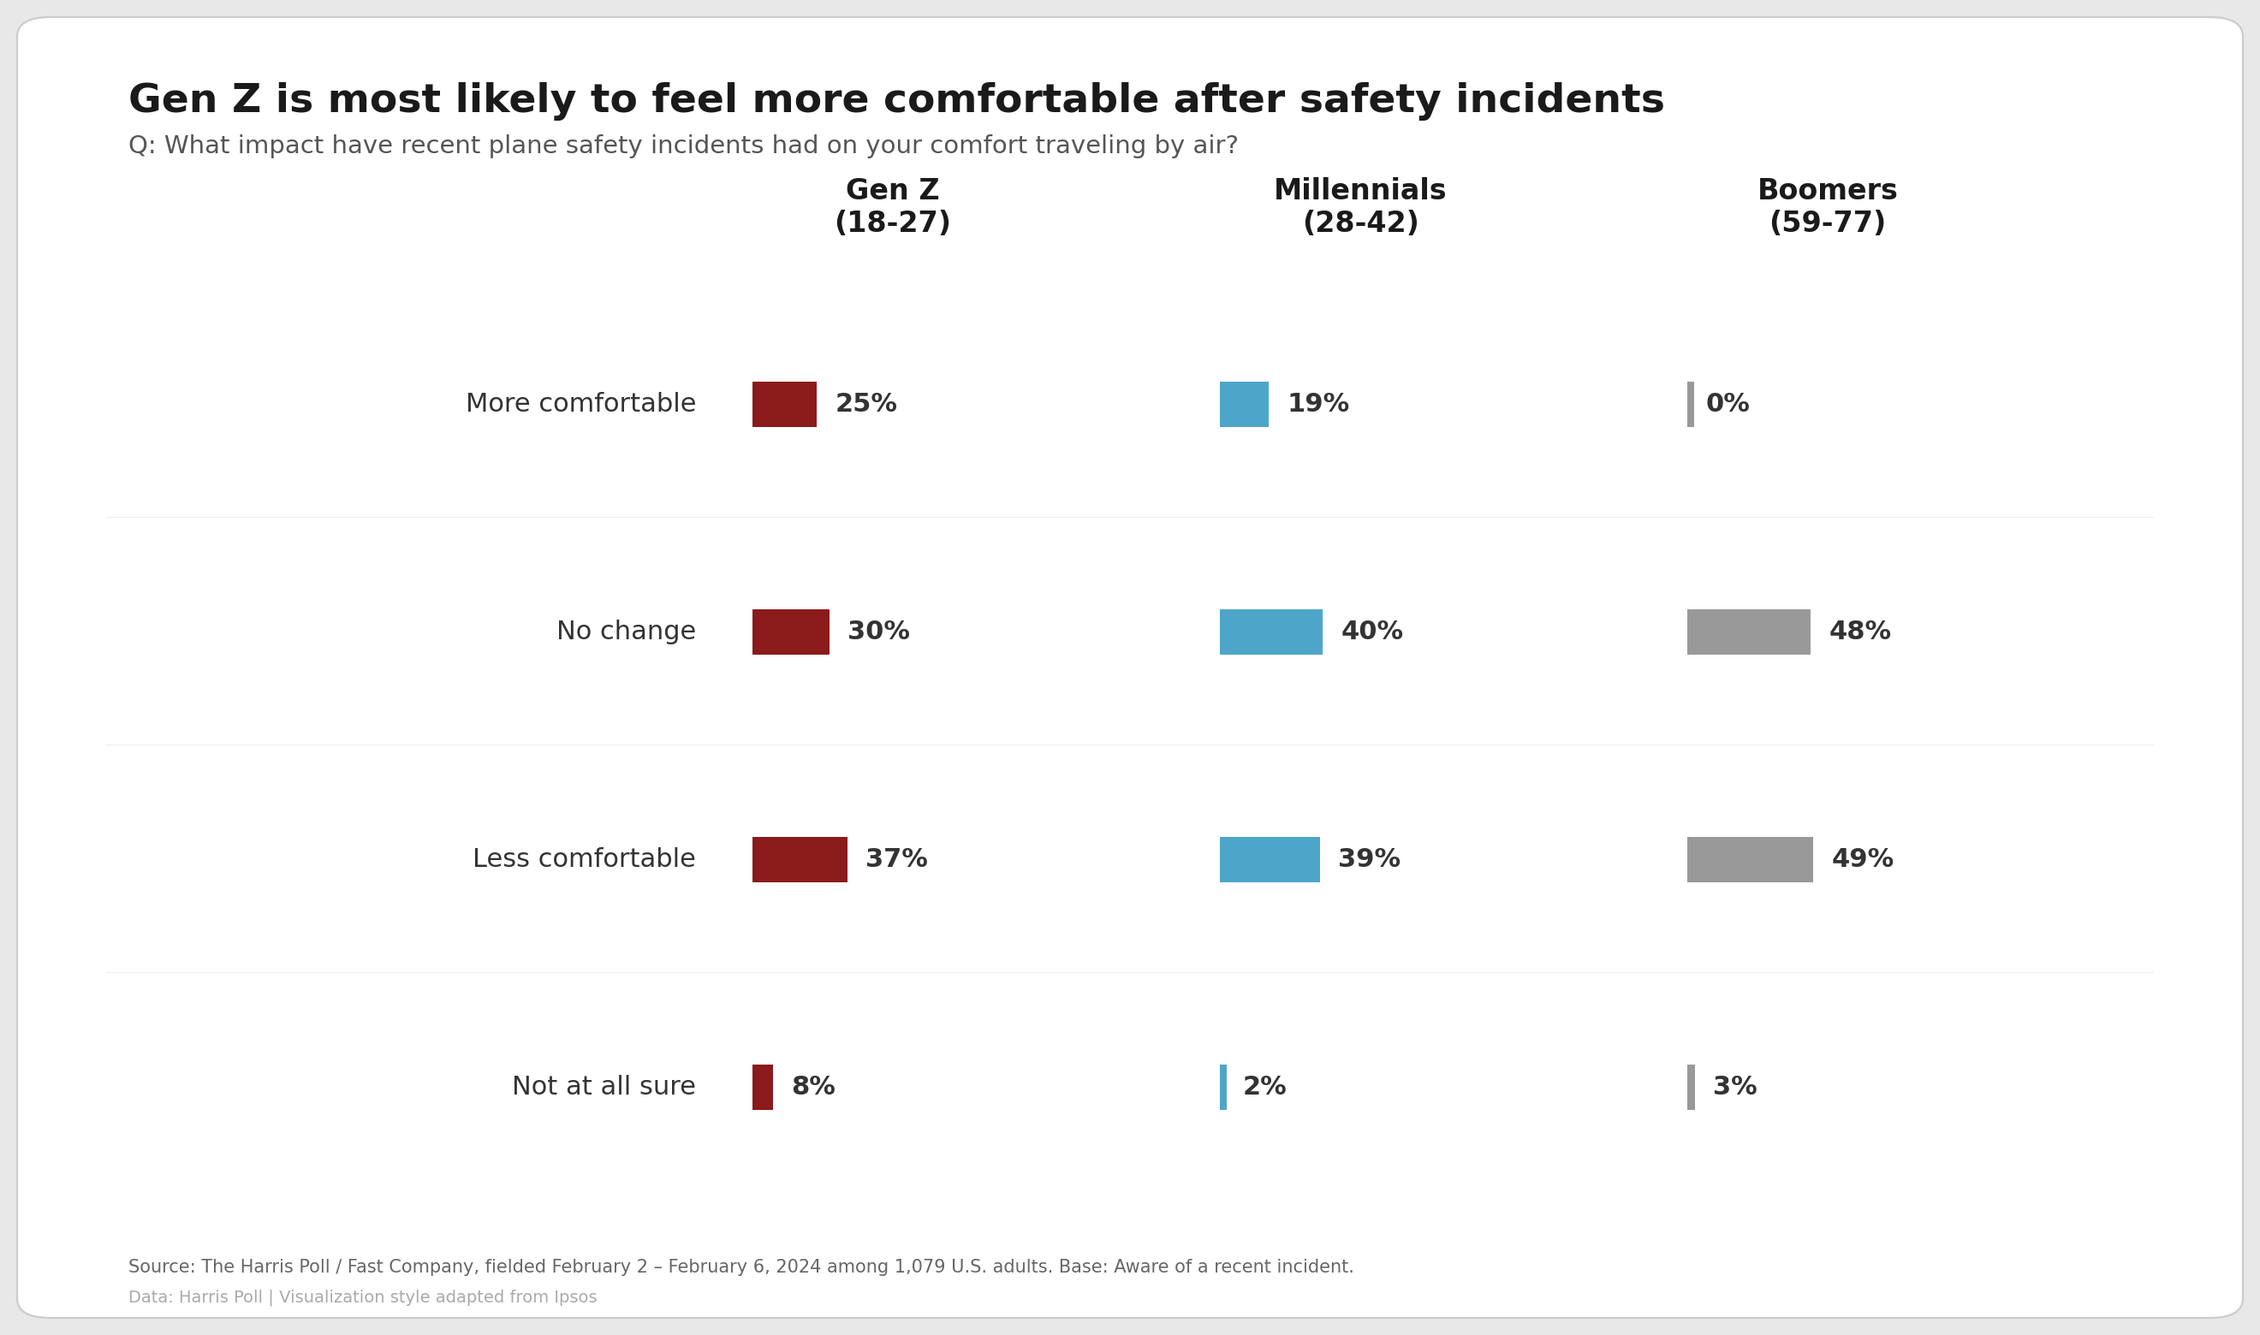
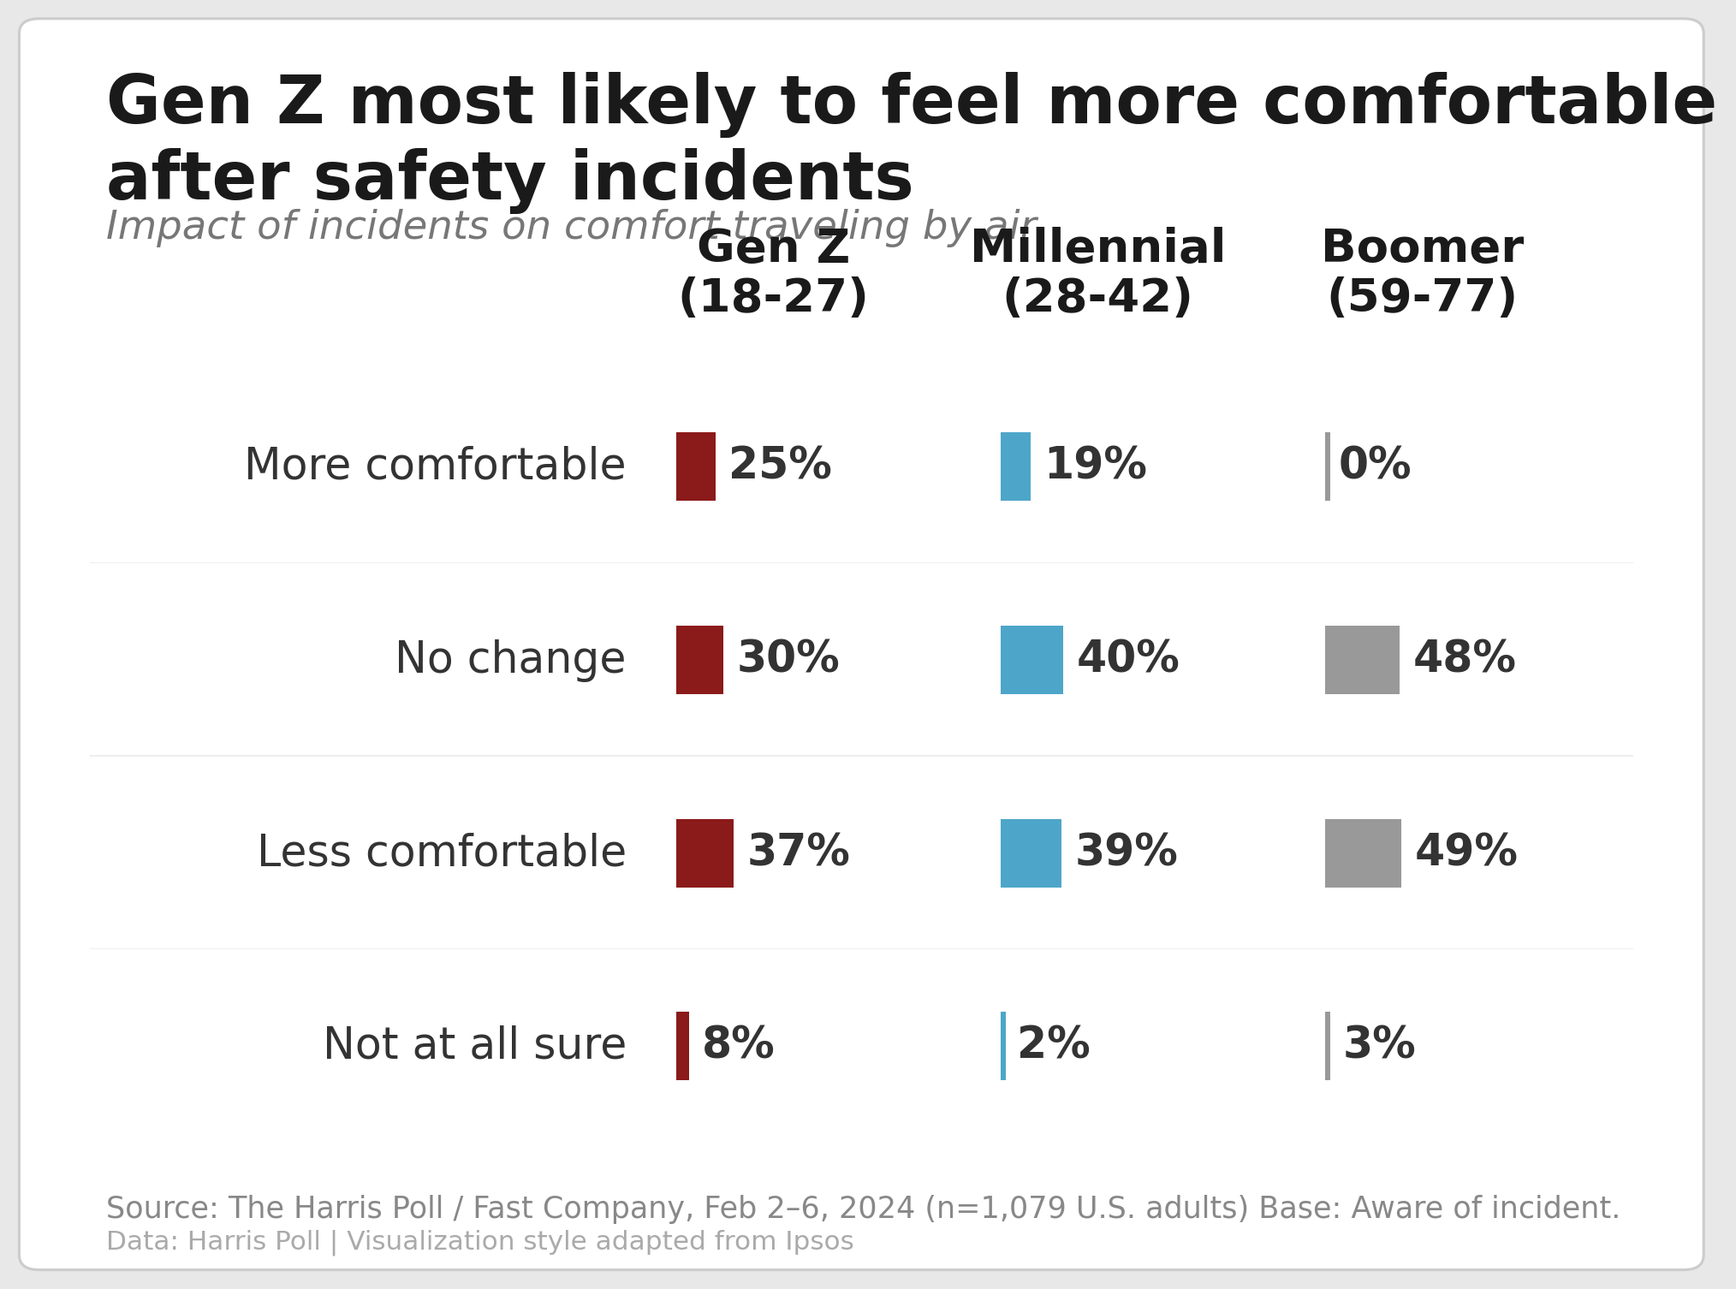
Resize Harris Poll charts for widget readability (size C preset)
Narrower figures (7in), 50% larger text, 280 DPI, tighter row spacing
so charts remain legible in the 250px scrollable survey widget.

diff --git a/pilots/assets/harris_poll/harris_charts2.py b/pilots/assets/harris_poll/harris_charts2.py
@@ -1,96 +1,102 @@
 import matplotlib.pyplot as plt
 import matplotlib.patches as mpatches
-import numpy as np
+import os
 
 # ── Style constants matching Ipsos template ──────────────────────────
 BG_OUTER = "#E8E8E8"
 BG_CARD  = "#FFFFFF"
 BAR_COLORS_3 = ["#8B1A1A", "#4DA6C9", "#999999"]  # dark red, teal-blue, gray
 
-SOURCE_TEXT = "Source: The Harris Poll / Fast Company, fielded February 2 \u2013 February 6, 2024 among 1,079 U.S. adults."
+SOURCE_TEXT = "Source: The Harris Poll / Fast Company, Feb 2\u20136, 2024 (n=1,079 U.S. adults)"
 COPYRIGHT = "Data: Harris Poll | Visualization style adapted from Ipsos"
+
+OUTPUT_DIR = os.path.dirname(os.path.abspath(__file__))
 
 
 def create_ipsos_chart(title, question, row_labels, data_cols, col_labels, bar_colors,
                        filename, source=SOURCE_TEXT, copyright_text=COPYRIGHT,
-                       figwidth=13, bar_section_left=0.32):
+                       figwidth=7, bar_section_left=0.38):
     """
-    Replicates the Ipsos horizontal bar chart style.
+    Ipsos-style horizontal bar chart optimized for small widget display.
+    Size C preset: ~50% larger text than original, 280 DPI.
 
     data_cols: list of lists — data_cols[col_index][row_index] = percentage value
     """
     n_rows = len(row_labels)
     n_cols = len(data_cols)
 
-    # Size figure based on content — cap row height so few-row charts aren't too spacious
-    row_height_in = min(1.1, 5.0 / max(n_rows, 1))
-    fig_height = max(5, n_rows * row_height_in + 3.2)
+    # Compact rows with bigger bars
+    row_height_in = 0.60
+    fig_height = max(4.0, n_rows * row_height_in + 2.8)
 
     fig = plt.figure(figsize=(figwidth, fig_height))
     fig.patch.set_facecolor(BG_OUTER)
 
     # Draw card background
     card = mpatches.FancyBboxPatch(
-        (0.015, 0.015), 0.97, 0.97,
-        boxstyle="round,pad=0.015",
+        (0.01, 0.01), 0.98, 0.98,
+        boxstyle="round,pad=0.012",
         facecolor=BG_CARD, edgecolor="#cccccc", linewidth=0.8,
         transform=fig.transFigure, zorder=0
     )
     fig.patches.append(card)
 
-    # Compute vertical zones (in figure fractions)
-    title_top = 0.95
-    question_y = 0.91
-    header_y = 0.83          # column headers
-    chart_top = 0.79         # first row starts here
-    chart_bottom = 0.09
+    # Vertical zones — headers pushed down near data rows
+    title_top = 0.96
+    question_y = 0.85
+    header_y = 0.76
+    chart_top = 0.72
+    chart_bottom = 0.10
     chart_height = chart_top - chart_bottom
 
-    # Title area
+    # Title
     fig.text(0.05, title_top, title,
-             fontsize=17, fontweight="bold", color="#1a1a1a",
-             fontfamily="sans-serif", va="top")
+             fontsize=20, fontweight="bold", color="#1a1a1a",
+             fontfamily="sans-serif", va="top",
+             transform=fig.transFigure)
     fig.text(0.05, question_y, question,
-             fontsize=10.5, color="#555555", fontfamily="sans-serif", va="top")
+             fontsize=12, color="#777777", fontfamily="sans-serif", va="top",
+             fontstyle="italic", transform=fig.transFigure)
 
     # Source at bottom
-    fig.text(0.05, 0.035, source,
-             fontsize=7.5, color="#666666", fontfamily="sans-serif")
-    fig.text(0.05, 0.012, copyright_text,
-             fontsize=7, color="#aaaaaa", fontfamily="sans-serif")
+    fig.text(0.05, 0.04, source,
+             fontsize=9, color="#888888", fontfamily="sans-serif")
+    fig.text(0.05, 0.015, copyright_text,
+             fontsize=8, color="#aaaaaa", fontfamily="sans-serif")
 
-    # Each row gets equal vertical space (capped)
+    # Row layout
     row_step = chart_height / n_rows
-    bar_h_fig = min(row_step * 0.35, 0.035)  # bar thickness
+    bar_h_fig = min(row_step * 0.48, 0.055)
 
     # Column layout
     bar_area_left = bar_section_left
-    bar_area_right = 0.95
+    bar_area_right = 0.96
     bar_area_width = bar_area_right - bar_area_left
     col_width = bar_area_width / n_cols
 
-    # Draw column headers
+    # Column headers
     for c, label in enumerate(col_labels):
         cx = bar_area_left + col_width * c + col_width * 0.35
         fig.text(cx, header_y, label,
-                 fontsize=12, fontweight="bold", color="#1a1a1a",
-                 fontfamily="sans-serif", ha="center", va="bottom")
+                 fontsize=14, fontweight="bold", color="#1a1a1a",
+                 fontfamily="sans-serif", ha="center", va="bottom",
+                 linespacing=1.15)
 
     # Draw each row
     for r in range(n_rows):
         row_y_center = chart_top - row_step * r - row_step / 2
 
-        # Row label on left
-        fig.text(bar_area_left - 0.015, row_y_center, row_labels[r],
-                 fontsize=11, color="#333333", fontfamily="sans-serif",
-                 ha="right", va="center", linespacing=1.3)
+        # Row label
+        fig.text(bar_area_left - 0.02, row_y_center, row_labels[r],
+                 fontsize=13, color="#333333", fontfamily="sans-serif",
+                 ha="right", va="center", linespacing=1.25)
 
-        # Draw bars for each column
+        # Bars for each column
         for c in range(n_cols):
             val = data_cols[c][r]
 
             col_left = bar_area_left + col_width * c + col_width * 0.05
-            max_bar_w = col_width * 0.55
+            max_bar_w = col_width * 0.48
 
             bar_w = (val / 100.0) * max_bar_w
             bar_y = row_y_center - bar_h_fig / 2
@@ -103,12 +109,13 @@ def create_ipsos_chart(title, question, row_labels, data_cols, col_labels, bar_c
             )
             fig.patches.append(bar)
 
+            # Percentage label
             label_x = col_left + bar_w + 0.008
             fig.text(label_x, row_y_center, f"{val}%",
-                     fontsize=11, fontweight="bold", color="#333333",
+                     fontsize=13, fontweight="bold", color="#333333",
                      fontfamily="sans-serif", ha="left", va="center")
 
-        # Light horizontal divider between rows
+        # Light divider between rows
         if r < n_rows - 1:
             div_y = row_y_center - row_step / 2
             fig.patches.append(mpatches.FancyBboxPatch(
@@ -118,46 +125,47 @@ def create_ipsos_chart(title, question, row_labels, data_cols, col_labels, bar_c
                 transform=fig.transFigure, zorder=1
             ))
 
-    plt.savefig(filename, dpi=200, bbox_inches="tight",
-                facecolor=fig.get_facecolor(), pad_inches=0.1)
+    filepath = os.path.join(OUTPUT_DIR, filename)
+    plt.savefig(filepath, dpi=280, bbox_inches="tight",
+                facecolor=fig.get_facecolor(), pad_inches=0.08)
     plt.close()
-    print(f"Saved: {filename}")
+    print(f"Saved: {filepath}")
 
 
 # ══════════════════════════════════════════════════════════════════════
 # CHART 1: Attitudes about flying safety (% Agree) by Generation
 # ══════════════════════════════════════════════════════════════════════
 create_ipsos_chart(
-    title="Younger Americans are less confident in air travel safety",
-    question="Q: How much do you agree or disagree with each of the following statements? (% Agree)",
+    title="Younger Americans are less confident\nin air travel safety",
+    question="% Agree with each statement",
     row_labels=[
-        "Flying is safer than other\nlong-distance transport",
-        "I trust flight teams to\nkeep passengers safe",
+        "Flying is safer than\nother transport",
+        "I trust flight teams\nto keep us safe",
         "I trust planes are\nthoroughly inspected",
         "Flying makes me\nfeel nervous",
-        "News stories about incidents\nmake me feel unsafe flying",
+        "News stories make\nme feel unsafe",
     ],
     data_cols=[
         [69, 79, 72, 67, 72],   # Gen Z
         [73, 80, 75, 63, 64],   # Millennials
         [74, 90, 70, 55, 61],   # Boomers
     ],
-    col_labels=["Gen Z\n(18-27)", "Millennials\n(28-42)", "Boomers\n(59-77)"],
+    col_labels=["Gen Z\n(18-27)", "Millennial\n(28-42)", "Boomer\n(59-77)"],
     bar_colors=BAR_COLORS_3,
-    filename="/tmp/harris_chart1_attitudes.png",
+    filename="harris_chart1_attitudes.png",
 )
 
 # ══════════════════════════════════════════════════════════════════════
 # CHART 2: Awareness of incidents by Generation
 # ══════════════════════════════════════════════════════════════════════
 create_ipsos_chart(
-    title="Boomers are most aware of recent plane safety incidents",
-    question="Q: Which of the following recent plane safety incidents were you aware of? (Select all that apply)",
+    title="Boomers are most aware of recent\nplane safety incidents",
+    question="% aware of each incident (select all that apply)",
     row_labels=[
         "Boeing door panel\nblew out midflight",
-        "Airbus jet collided with\nmilitary plane in Tokyo",
-        "Boeing nose wheel\nfell off before takeoff",
-        "Cargo plane crashed in\nresidential area",
+        "Airbus/military\ncollision in Tokyo",
+        "Boeing nose wheel\nfell off at takeoff",
+        "Cargo plane crash\nin residential area",
         "None of the above",
     ],
     data_cols=[
@@ -165,17 +173,17 @@ create_ipsos_chart(
         [47, 25, 22, 14, 31],   # Millennials
         [87, 39, 19, 19, 12],   # Boomers
     ],
-    col_labels=["Gen Z\n(18-27)", "Millennials\n(28-42)", "Boomers\n(59-77)"],
+    col_labels=["Gen Z\n(18-27)", "Millennial\n(28-42)", "Boomer\n(59-77)"],
     bar_colors=BAR_COLORS_3,
-    filename="/tmp/harris_chart2_awareness.png",
+    filename="harris_chart2_awareness.png",
 )
 
 # ══════════════════════════════════════════════════════════════════════
 # CHART 3: Impact on comfort by Gender
 # ══════════════════════════════════════════════════════════════════════
 create_ipsos_chart(
-    title="Women are more likely to feel less comfortable flying after incidents",
-    question="Q: What impact have recent plane safety incidents had on your comfort traveling by air?",
+    title="Women feel less comfortable flying\nafter safety incidents",
+    question="Impact of incidents on comfort traveling by air",
     row_labels=[
         "More comfortable",
         "No change",
@@ -189,16 +197,16 @@ create_ipsos_chart(
     ],
     col_labels=["Male", "Female", "Total"],
     bar_colors=BAR_COLORS_3,
-    filename="/tmp/harris_chart3_comfort_gender.png",
-    source=SOURCE_TEXT + " Base: Aware of a recent incident (n=817).",
+    filename="harris_chart3_comfort_gender.png",
+    source=SOURCE_TEXT + " Base: Aware of incident (n=817).",
 )
 
 # ══════════════════════════════════════════════════════════════════════
 # CHART 4: Impact on comfort by Generation
 # ══════════════════════════════════════════════════════════════════════
 create_ipsos_chart(
-    title="Gen Z is most likely to feel more comfortable after safety incidents",
-    question="Q: What impact have recent plane safety incidents had on your comfort traveling by air?",
+    title="Gen Z most likely to feel more comfortable\nafter safety incidents",
+    question="Impact of incidents on comfort traveling by air",
     row_labels=[
         "More comfortable",
         "No change",
@@ -210,51 +218,51 @@ create_ipsos_chart(
         [19, 40, 39, 2],   # Millennials
         [0, 48, 49, 3],    # Boomers
     ],
-    col_labels=["Gen Z\n(18-27)", "Millennials\n(28-42)", "Boomers\n(59-77)"],
+    col_labels=["Gen Z\n(18-27)", "Millennial\n(28-42)", "Boomer\n(59-77)"],
     bar_colors=BAR_COLORS_3,
-    filename="/tmp/harris_chart4_comfort_gen.png",
-    source=SOURCE_TEXT + " Base: Aware of a recent incident.",
+    filename="harris_chart4_comfort_gen.png",
+    source=SOURCE_TEXT + " Base: Aware of incident.",
 )
 
 # ══════════════════════════════════════════════════════════════════════
 # CHART 5: Behavioral changes (% More Likely) by Generation
 # ══════════════════════════════════════════════════════════════════════
 create_ipsos_chart(
-    title="Younger flyers are most likely to change behavior after safety incidents",
-    question="Q: Have recent incidents made you more or less likely to do each of the following? (% More Likely)",
+    title="Younger flyers most likely to change\nbehavior after incidents",
+    question="% More Likely to do each of the following",
     row_labels=[
         "Wear seatbelt\nwhen not required",
-        "Pay attention to\nsafety materials",
-        "Pay attention to\npre-takeoff activities",
+        "Attend to\nsafety materials",
+        "Attend to pre-\ntakeoff activities",
         "Monitor plane\nfunctions",
-        "Consider the type\nof plane",
+        "Consider type\nof plane",
         "Consider the\nairline booked",
-        "Select seat in\nspecific zone",
-        "Select seat in\nspecific row area",
+        "Pick seat by\nplane zone",
+        "Pick seat by\nrow area",
     ],
     data_cols=[
         [56, 56, 45, 42, 40, 48, 41, 42],   # Gen Z
         [49, 52, 53, 50, 35, 41, 28, 36],   # Millennials
         [50, 48, 41, 39, 35, 30, 26, 26],   # Boomers
     ],
-    col_labels=["Gen Z\n(18-27)", "Millennials\n(28-42)", "Boomers\n(59-77)"],
+    col_labels=["Gen Z\n(18-27)", "Millennial\n(28-42)", "Boomer\n(59-77)"],
     bar_colors=BAR_COLORS_3,
-    filename="/tmp/harris_chart5_behavior.png",
-    source=SOURCE_TEXT + " Base: Plans to fly & aware of incident (n=557).",
+    filename="harris_chart5_behavior.png",
+    source=SOURCE_TEXT + " Base: Plans to fly & aware (n=557).",
 )
 
 # ══════════════════════════════════════════════════════════════════════
 # CHART 6: Flying safety attitudes by Gender
 # ══════════════════════════════════════════════════════════════════════
 create_ipsos_chart(
-    title="Women are more nervous about flying than men",
-    question="Q: How much do you agree or disagree with each of the following statements? (% Agree)",
+    title="Women are more nervous about\nflying than men",
+    question="% Agree with each statement",
     row_labels=[
-        "Flying is safer than other\nlong-distance transport",
-        "I trust flight teams to\nkeep passengers safe",
+        "Flying is safer than\nother transport",
+        "I trust flight teams\nto keep us safe",
         "I trust planes are\nthoroughly inspected",
         "Flying makes me\nfeel nervous",
-        "News stories about incidents\nmake me feel unsafe flying",
+        "News stories make\nme feel unsafe",
     ],
     data_cols=[
         [64, 87, 74, 50, 53],   # Male
@@ -263,30 +271,30 @@ create_ipsos_chart(
     ],
     col_labels=["Male", "Female", "Total"],
     bar_colors=BAR_COLORS_3,
-    filename="/tmp/harris_chart6_attitudes_gender.png",
+    filename="harris_chart6_attitudes_gender.png",
 )
 
 # ══════════════════════════════════════════════════════════════════════
 # CHART 7: Attitudes by Race/Ethnicity
 # ══════════════════════════════════════════════════════════════════════
 create_ipsos_chart(
-    title="Air travel safety perceptions by race and ethnicity",
-    question="Q: How much do you agree or disagree with each of the following statements? (% Agree)",
+    title="Air travel safety perceptions\nby race and ethnicity",
+    question="% Agree with each statement",
     row_labels=[
-        "Flying is safer than other\nlong-distance transport",
-        "I trust flight teams to\nkeep passengers safe",
+        "Flying is safer than\nother transport",
+        "I trust flight teams\nto keep us safe",
         "I trust planes are\nthoroughly inspected",
         "Flying makes me\nfeel nervous",
-        "News stories about incidents\nmake me feel unsafe flying",
+        "News stories make\nme feel unsafe",
     ],
     data_cols=[
         [64, 82, 75, 58, 62],   # White
         [64, 82, 72, 62, 67],   # People of Color
         [69, 86, 73, 59, 64],   # Total
     ],
-    col_labels=["White Only\n(NH/L)", "All People\nof Color", "Total"],
+    col_labels=["White\n(NH/L)", "People of\nColor", "Total"],
     bar_colors=BAR_COLORS_3,
-    filename="/tmp/harris_chart7_attitudes_race.png",
+    filename="harris_chart7_attitudes_race.png",
 )
 
 print("\nAll 7 charts generated!")
